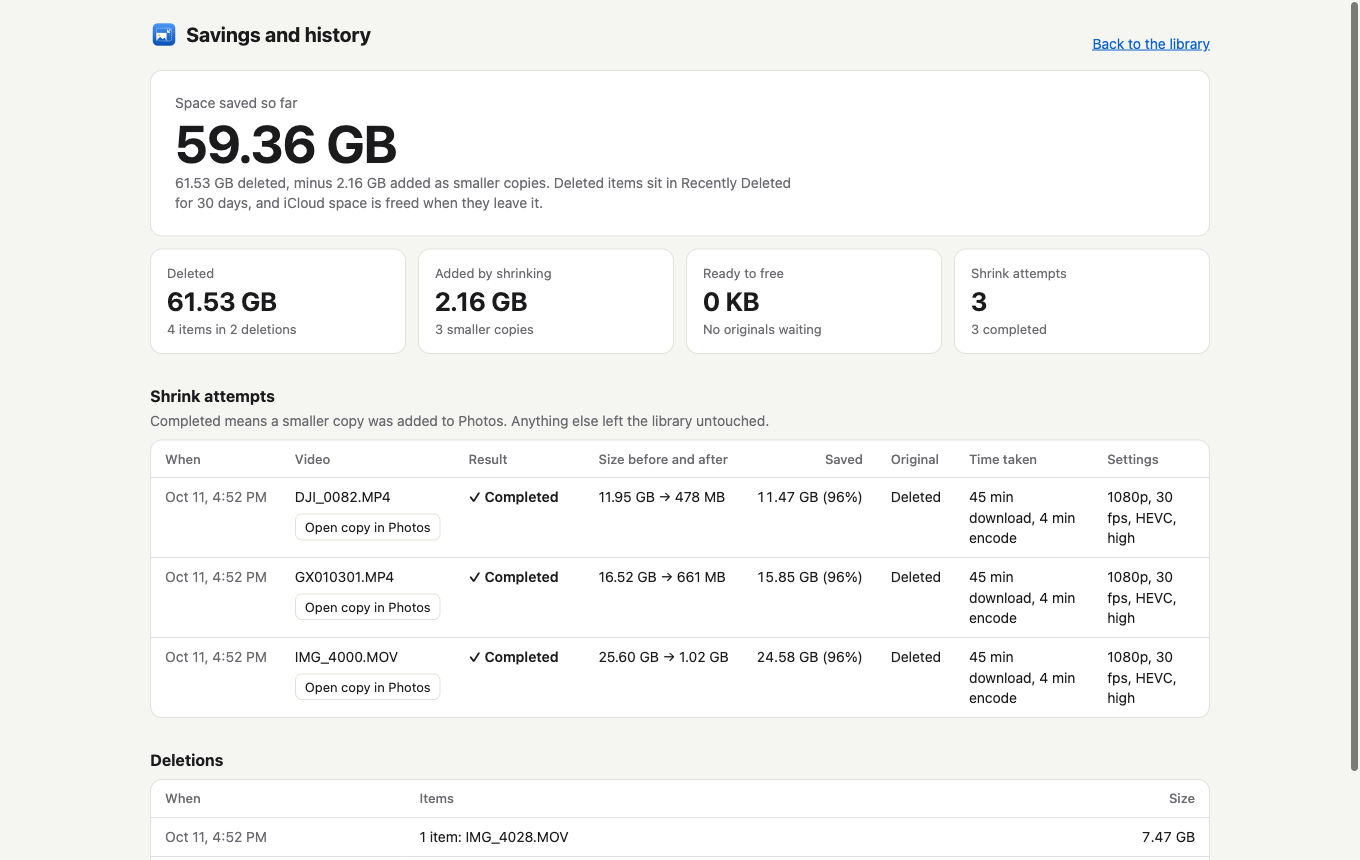
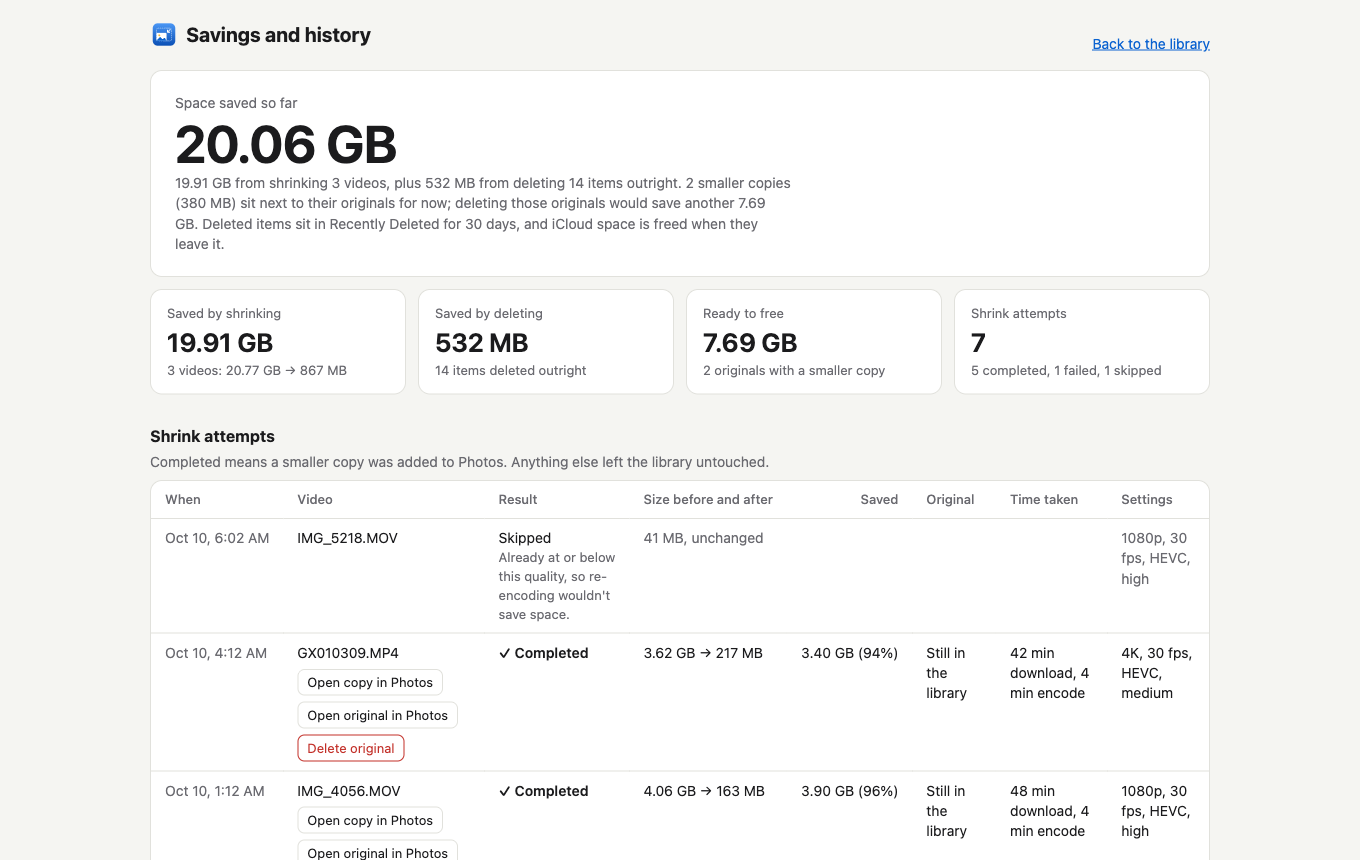
Savings page: show what shrinking saved and what deleting saved
The tiles used to read Deleted and Added by shrinking, and the second
was the size of the new copies, which looked like a small saving. They
now read Saved by shrinking (originals replaced by smaller copies, with
the before and after sizes) and Saved by deleting (everything else that
was deleted). A copy that was itself deleted counts for nothing, and a
copy still sitting next to its original is called out separately.

diff --git a/stats.html b/stats.html
@@ -162,26 +162,51 @@ function render(data) {
   }
 
   const deletedItems = deletes.flatMap((e) => e.items || []);
-  const deletedBytes = deletedItems.reduce((sum, item) => sum + item.bytes, 0);
-  const addedBytes = done.reduce((sum, e) => sum + e.newBytes, 0);
-  const net = deletedBytes - addedBytes;
-  // A shrunk video only saves space once its original is gone; until then the library holds both.
-  const waiting = done.filter((e) => e.originalExists && e.copyExists);
-  const waitingBytes = waiting.reduce((sum, e) => sum + e.originalBytes, 0);
+  const deletedIds = new Set(deletedItems.map((item) => item.id));
+  // Something counts as gone if this app deleted it, or if the measured library no longer has it.
+  const gone = (id, exists) => deletedIds.has(id) || (data.ready && !exists);
 
+  // Each finished shrink lands in one of three places. Its copy replaced the original: that is space
+  // saved by shrinking. Both are still in the library: the copy is extra until the original goes.
+  // The copy itself was deleted: it added nothing, and its original counts as a plain deletion if it went too.
+  const replaced = [], waiting = [], credited = new Set(), copyIds = new Set();
+  for (const e of done) {
+    copyIds.add(e.newId);
+    if (gone(e.newId, e.copyExists)) continue;
+    if (gone(e.assetId, e.originalExists) && !credited.has(e.assetId)) {
+      credited.add(e.assetId);
+      replaced.push(e);
+    } else {
+      waiting.push(e);
+    }
+  }
+  const sum = (list, pick) => list.reduce((total, x) => total + pick(x), 0);
+  const shrunkBefore = sum(replaced, (e) => e.originalBytes), shrunkAfter = sum(replaced, (e) => e.newBytes);
+  const savedByShrinking = shrunkBefore - shrunkAfter;
+  // Everything deleted that wasn't an original replaced by a smaller copy, or a smaller copy itself.
+  const outright = deletedItems.filter((item) => !credited.has(item.id) && !copyIds.has(item.id));
+  const savedByDeleting = sum(outright, (item) => item.bytes);
+  const waitingCopies = sum(waiting, (e) => e.newBytes);
+  const waitingBytes = sum(waiting.filter((e) => e.originalExists), (e) => e.originalBytes);
+  const net = savedByShrinking + savedByDeleting - waitingCopies;
+
+  const parts = [
+    ...(replaced.length ? [`${size(savedByShrinking)} from shrinking ${plural(replaced.length, "video")}`] : []),
+    ...(outright.length ? [`${size(savedByDeleting)} from deleting ${plural(outright.length, "item")} outright`] : []),
+  ];
   const hero = el("div", { className: "hero" }, [
     el("div", { className: "label", textContent: net >= 0 ? "Space saved so far" : "Library has grown by" }),
     el("div", { className: "value", textContent: size(net) }),
     el("div", { className: "note", textContent:
-      `${size(deletedBytes)} deleted, minus ${size(addedBytes)} added as smaller copies. ` +
-      (waiting.length ? `Deleting the ${plural(waiting.length, "original")} that already ${waiting.length === 1 ? "has" : "have"} a smaller copy would save another ${size(waitingBytes)}. ` : "") +
+      (parts.length ? parts.join(", plus ") + ". " : "") +
+      (waiting.length ? `${plural(waiting.length, "smaller copy").replace("copys", "copies")} (${size(waitingCopies)}) ${waiting.length === 1 ? "sits" : "sit"} next to ${waiting.length === 1 ? "its original" : "their originals"} for now; deleting ${waiting.length === 1 ? "that original" : "those originals"} would save another ${size(waitingBytes)}. ` : "") +
       "Deleted items sit in Recently Deleted for 30 days, and iCloud space is freed when they leave it." }),
   ]);
 
   const outcomes = ["done", "failed", "skipped", "cancelled"].map((o) => [o, shrinks.filter((e) => e.outcome === o).length]).filter(([, n]) => n);
   const tiles = el("div", { className: "tiles" }, [
-    tile("Deleted", size(deletedBytes), plural(deletedItems.length, "item") + ` in ${plural(deletes.length, "deletion")}`),
-    tile("Added by shrinking", size(addedBytes), plural(done.length, "smaller copy").replace("copys", "copies")),
+    tile("Saved by shrinking", size(savedByShrinking), replaced.length ? `${plural(replaced.length, "video")}: ${size(shrunkBefore)} → ${size(shrunkAfter)}` : "No originals replaced yet"),
+    tile("Saved by deleting", size(savedByDeleting), outright.length ? plural(outright.length, "item") + " deleted outright" : "Nothing deleted outright"),
     tile("Ready to free", size(waitingBytes), waiting.length ? plural(waiting.length, "original") + " with a smaller copy" : "No originals waiting"),
     tile("Shrink attempts", shrinks.length.toLocaleString(), outcomes.map(([o, n]) => `${n} ${o === "done" ? "completed" : o}`).join(", ") || "None yet"),
   ]);
